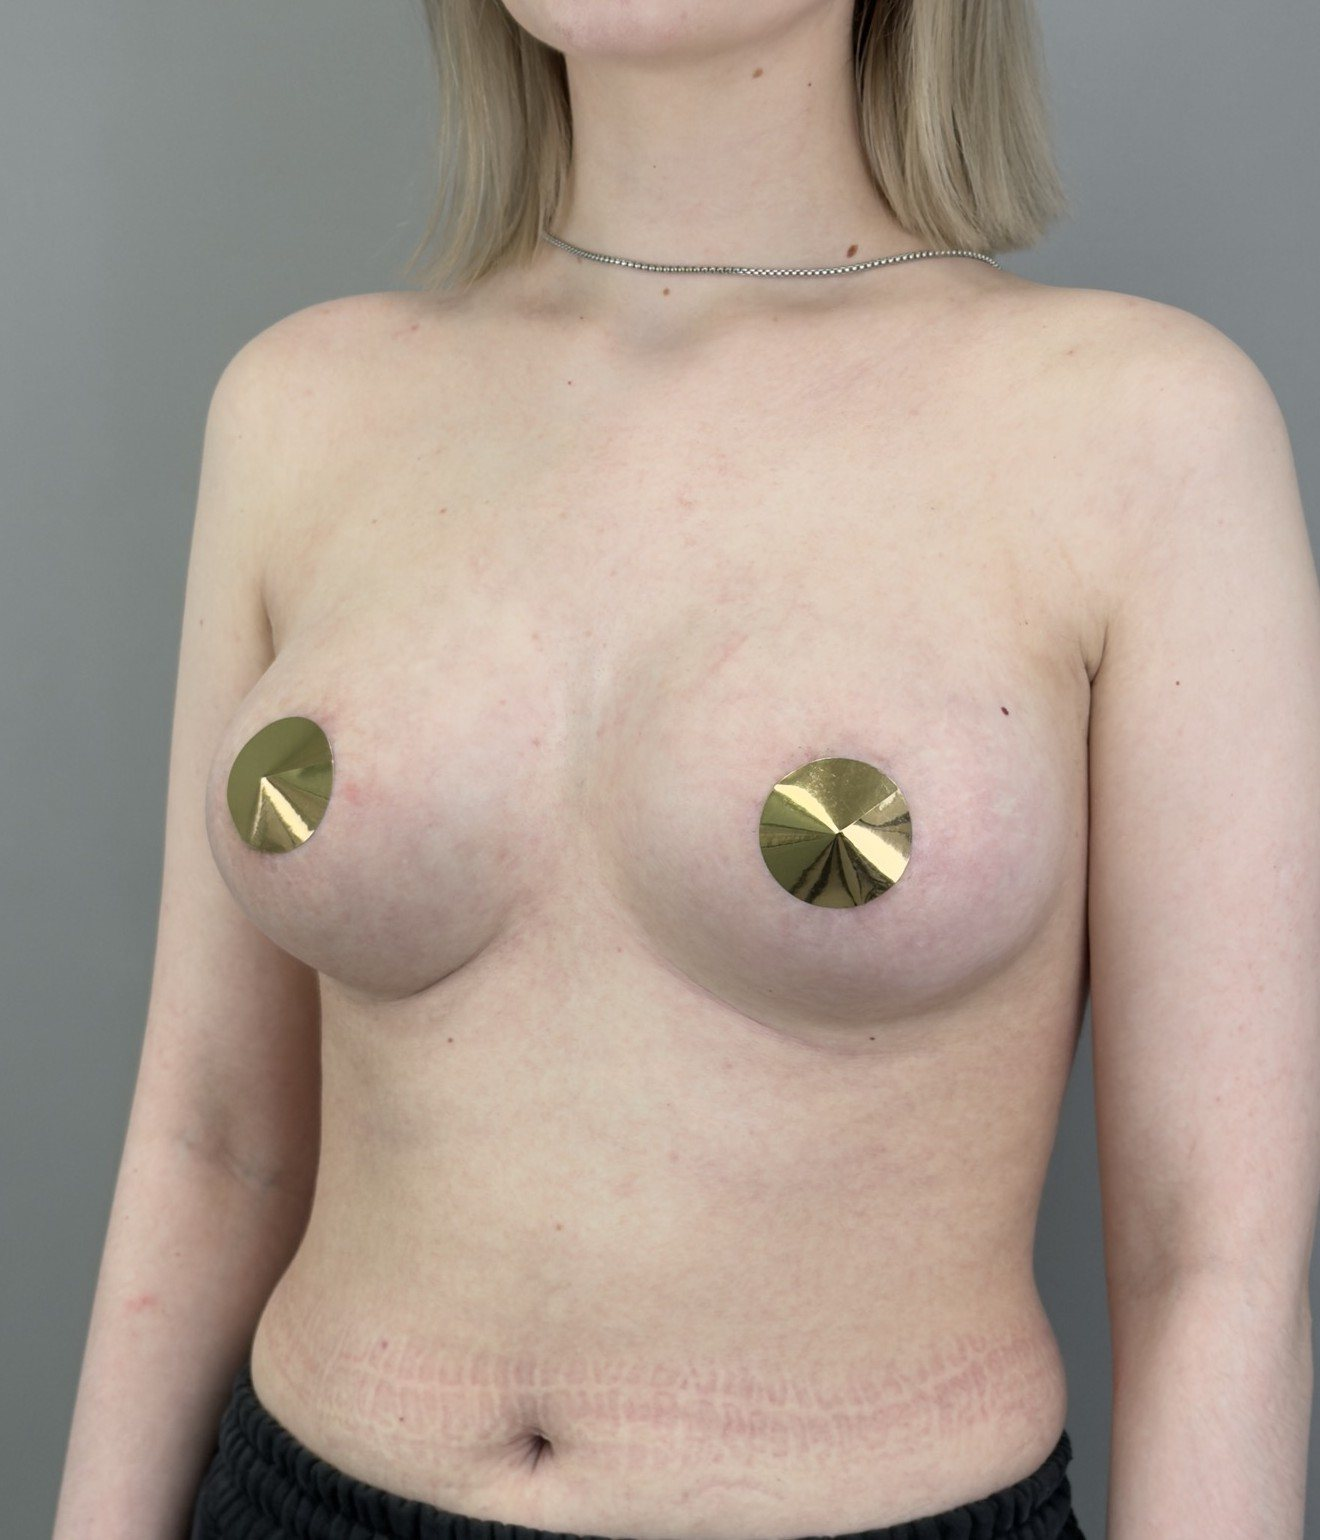
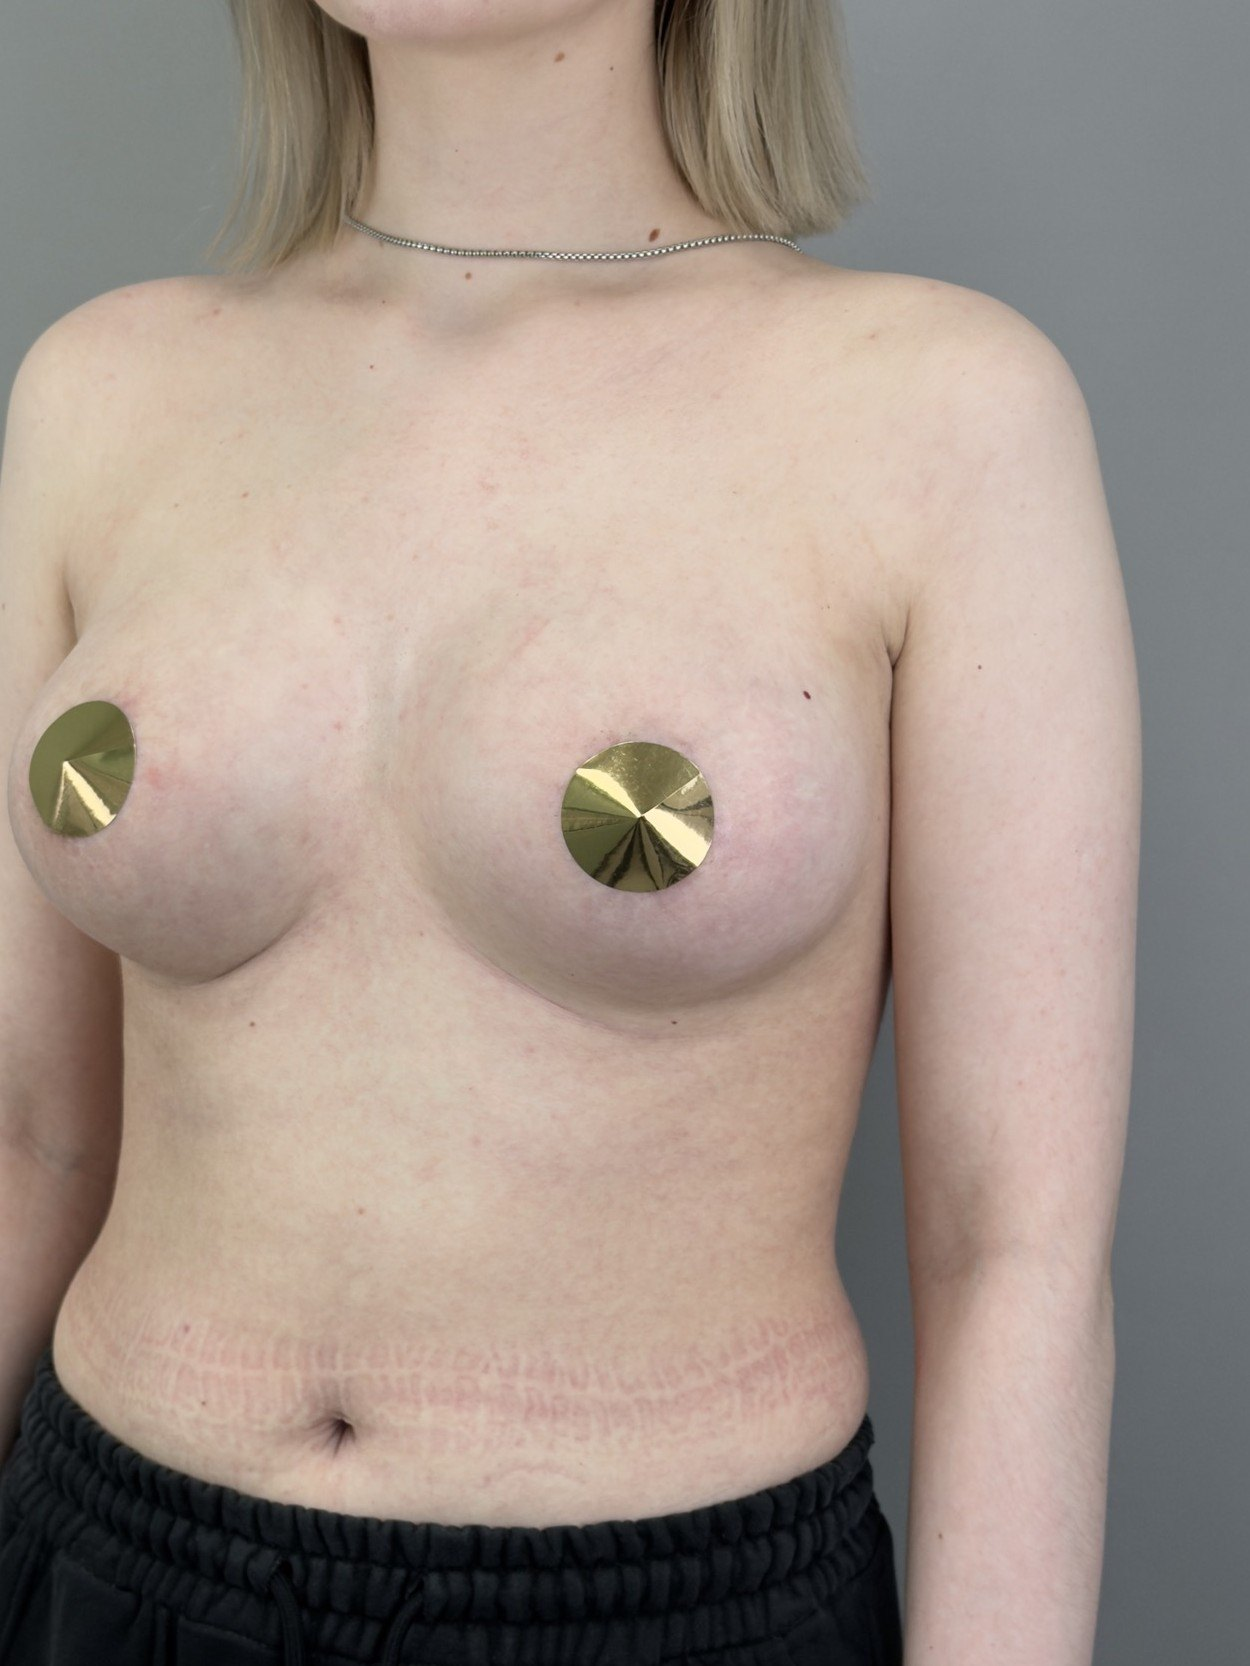
Fix zoom mismatch in mammoplasty case-study photo pair
The detail-section before/after pair (profile vs frontal, different
patient than the rail slider) was cropped with rough percentage
guesses that didn't account for the two source photos being shot at
different camera distances. Recropped using the nipple sticker's
pixel diameter as a scale reference — the physical sticker size is
fixed, so its pixel size ratio gives an accurate zoom-matching factor
independent of body pose (profile vs frontal).

diff --git a/production/index.html b/production/index.html
@@ -26,7 +26,7 @@
 <link rel="preconnect" href="https://fonts.gstatic.com" crossorigin>
 <link href="https://fonts.googleapis.com/css2?family=Source+Serif+4:ital,opsz,wght@0,8..60,400;0,8..60,500;0,8..60,600;0,8..60,700;1,8..60,400;1,8..60,500&family=IBM+Plex+Sans:wght@300;400;500;600&family=IBM+Plex+Mono:wght@400;500&family=Montserrat:wght@400;500;600&display=swap" rel="stylesheet">
 
-<link rel="stylesheet" href="styles.css?v=28">
+<link rel="stylesheet" href="styles.css?v=29">
 
 <script type="application/ld+json">
 {
@@ -549,22 +549,22 @@
 <script src="https://cdn.jsdelivr.net/npm/gsap@3.13.0/dist/SplitText.min.js"></script>
 <script src="https://cdn.jsdelivr.net/npm/gsap@3.13.0/dist/DrawSVGPlugin.min.js"></script>
 
-<script src="ap5-figure.js?v=28"></script>
-<script src="availability.js?v=28"></script>
-<script src="booking.js?v=28"></script>
-<script src="app.js?v=28"></script>
+<script src="ap5-figure.js?v=29"></script>
+<script src="availability.js?v=29"></script>
+<script src="booking.js?v=29"></script>
+<script src="app.js?v=29"></script>
 
 <!-- Motion system — loads after app.js so dynamically-created elements
      (rail buttons, subnav, booking panels) already exist in the DOM. -->
-<script src="motion/global.js?v=28"></script>
-<script src="motion/hero.js?v=28"></script>
-<script src="motion/requests.js?v=28"></script>
-<script src="motion/results.js?v=28"></script>
-<script src="motion/works.js?v=28"></script>
-<script src="motion/approach.js?v=28"></script>
-<script src="motion/price.js?v=28"></script>
-<script src="motion/explains.js?v=28"></script>
-<script src="motion/booking.js?v=28"></script>
-<script src="motion/router.js?v=28"></script>
+<script src="motion/global.js?v=29"></script>
+<script src="motion/hero.js?v=29"></script>
+<script src="motion/requests.js?v=29"></script>
+<script src="motion/results.js?v=29"></script>
+<script src="motion/works.js?v=29"></script>
+<script src="motion/approach.js?v=29"></script>
+<script src="motion/price.js?v=29"></script>
+<script src="motion/explains.js?v=29"></script>
+<script src="motion/booking.js?v=29"></script>
+<script src="motion/router.js?v=29"></script>
 </body>
 </html>
